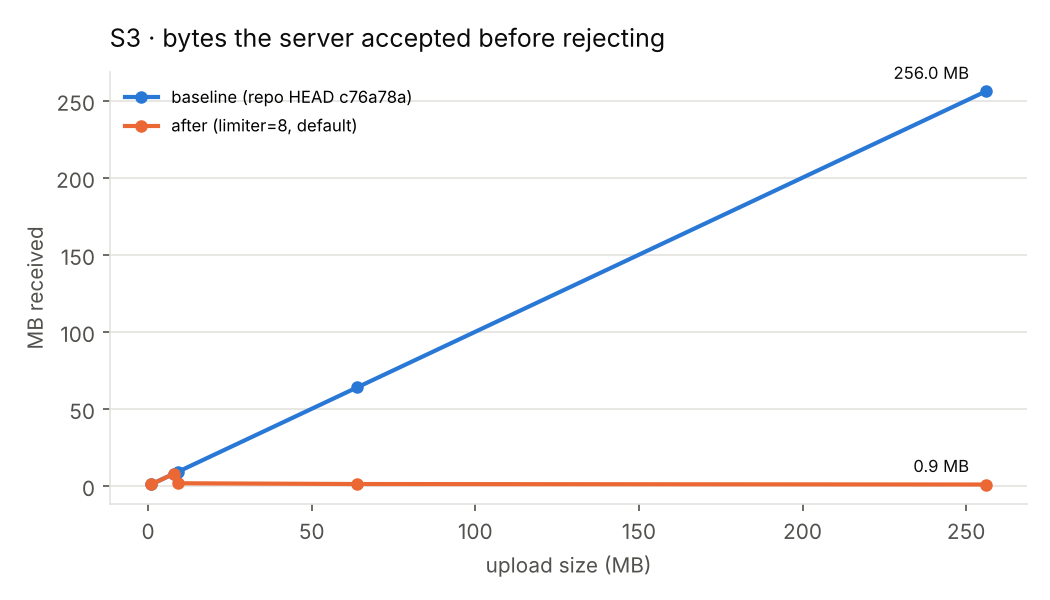
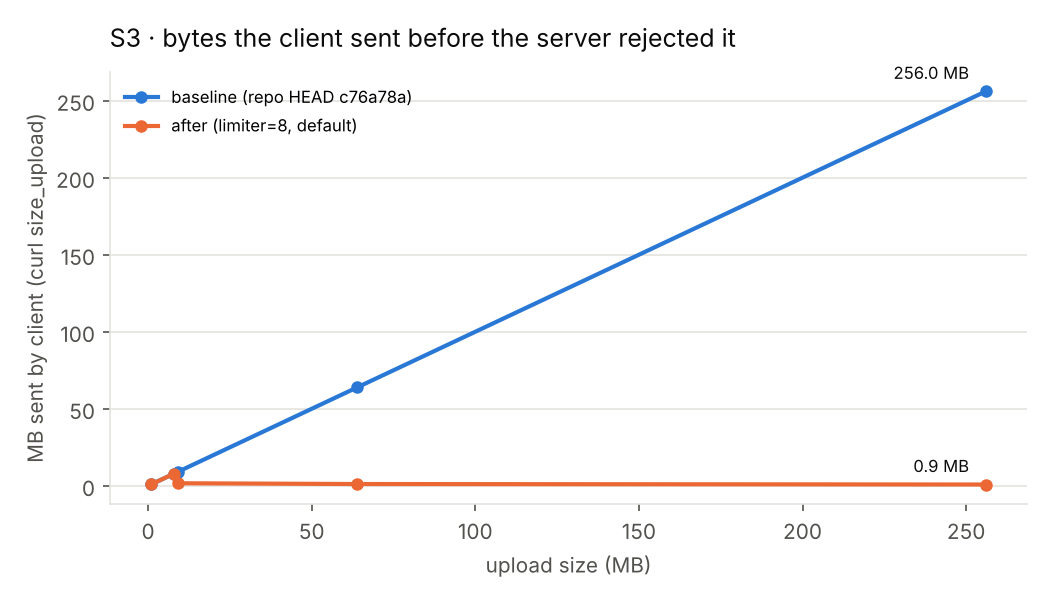
Case study: correct metric names and claims; add one-page summary
- S3: curl size_upload is bytes the client sent, not bytes the server read;
  chart, 05, 08 and 09 relabelled.
- Provider deadline described as a bounded wait with fallback; a started
  provider call is not cancelled.
- Magic-byte checks described as header checks; sidecars as consistency
  checks, not proof of provenance.
- Add docs/engineering-case-study/CASE-STUDY.md as the entry page.

Claude-Session: https://claude.ai/code/session_011KTyP5Nqa3sWCddZwMHgvc

Changed region(s): [[0.2743, 0.03, 0.701, 0.09], [0.0305, 0.18, 0.061, 0.78]]

diff --git a/benchmarks/report.py b/benchmarks/report.py
@@ -140,7 +140,7 @@ def main():
             ax.plot([r["upload_mb"] for r in rs], [r["bytes_sent_by_client"] / 2**20 for r in rs], marker="o", ms=5, lw=2, color=C[lab], label=LABEL[lab])
             ax.annotate(f"{rs[-1]['bytes_sent_by_client']/2**20:.1f} MB", (rs[-1]["upload_mb"], rs[-1]["bytes_sent_by_client"] / 2**20),
                         textcoords="offset points", xytext=(-8, 6), ha="right", fontsize=8, color=INK)
-        style(ax, "S3 · bytes the server accepted before rejecting", "upload size (MB)", "MB received")
+        style(ax, "S3 · bytes the client sent before the server rejected it", "upload size (MB)", "MB sent by client (curl size_upload)")
         ax.legend(frameon=False, fontsize=8)
         fig.tight_layout(); fig.savefig(CH / "s3-upload-guard.png"); plt.close(fig)
 

diff --git a/apps/backend/app/generation.py b/apps/backend/app/generation.py
@@ -44,7 +44,8 @@ FALLBACK_DIR = STORAGE / "fallback"
 RESULTS_DIR = STORAGE / "results"
 
 MAX_BYTES = 8 * 1024 * 1024
-# Hard deadline for one provider call. docs/architecture/api-contract.md promises a
+# Bounded wait for one provider call: after this the caller gets a fallback. The call
+# itself is NOT cancelled (a started thread cannot be stopped). docs/architecture/api-contract.md promises a
 # result within 60 s and the client/proxy give up at 75 s; without this the request
 # simply hung until the client aborted (benchmarks scenario S4). Tighten it from
 # pregen's measured durationSec once a provider exists.

diff --git a/docs/engineering-case-study/08-portfolio-case-study.md b/docs/engineering-case-study/08-portfolio-case-study.md
@@ -12,7 +12,7 @@ This study audited that shell, reproduced its 67 existing tests, and load-tested
 |---|---|---|
 | `/api/health` latency with 40–60 slow generations in flight | ~4.8 s (thread-pool starvation) | 2–11 ms |
 | Caller experience when the model hangs | request open until the client gave up (20 s test cap; 75 s in production config) | labelled fallback result at the deadline (5.1 s at test setting; 60 s default) |
-| Bytes received before rejecting a 256 MB upload | 268 MB (~0.7 s on loopback) | < 1.3 MB (~1 ms) |
+| Bytes the client had sent when a 256 MB upload was rejected (curl `size_upload`) | 268 MB, all parsed by the server (~0.7 s on loopback) | < 1.3 MB (~1 ms) |
 
 All figures come from [`benchmarks/`](../../benchmarks/) and are reproducible; see [04](04-benchmark-results.md).
 
@@ -52,8 +52,8 @@ Python 3 · FastAPI / Starlette / uvicorn · AnyIO · TypeScript · Next.js 16 /
 There is no model call yet (`_call_provider` raises `NotImplementedError`). The workflow *around* it is designed and tested:
 
 - **Input**: `recipeId` + one image. The prompt is loaded server-side; the public projection is an allowlist, so the prompt cannot reach a client.
-- **Validation**: size (now enforced before parsing), content sniffing by magic bytes, readiness gate (`tryReady`).
-- **Execution**: provider call under a concurrency limit and a hard deadline (this study).
+- **Validation**: size (now enforced before parsing), magic-byte header checks (not full decoding), readiness gate (`tryReady`).
+- **Execution**: provider call under a concurrency limit, with a bounded wait after which the caller gets a fallback (this study; the provider call itself is not cancelled).
 - **Output validation**: provider bytes must pass the same magic-byte check as uploads; a "200 with text" is a failure.
 - **Fallback**: a pre-generated `cached` result only if its provenance sidecar is complete and its image is real; otherwise `mock`.
 - **Disclosure**: the server writes `sourceNote`; the client renders it verbatim and rejects payloads where `mock` carries an image.
@@ -67,7 +67,7 @@ Two processes (Next.js, FastAPI) behind one origin via Next rewrites with a 75 s
 Full records: [07-architecture-decisions.md](07-architecture-decisions.md). The three made in this study:
 
 - **ADR-7 — Dedicated generation limiter + async health.** Starlette runs sync routes on AnyIO's 40-slot default limiter; generation shared it with every read route. A separate `CapacityLimiter` (default 8, configurable) isolates them without changing the HTTP contract. Cost: generation throughput is capped at `limit / provider latency` — intended, and tied to the provider's rate limit.
-- **ADR-8 — Deadline in the pipeline.** Provider calls run in a bounded executor; on timeout the request falls back. Abandoning a thread is safe only because the provider function never writes — an invariant pinned by a new test.
+- **ADR-8 — Bounded wait in the pipeline.** Provider calls run in a bounded executor; on timeout the caller gets a fallback (the started call keeps running; it is not cancelled). Abandoning a thread is safe only because the provider function never writes — an invariant pinned by a new test.
 - **ADR-9 — Upload limit at the ASGI layer.** FastAPI parses the multipart body before the route runs, so an in-route size check is too late. A ~60-line middleware rejects by `Content-Length` or by counting streamed bytes, preserving `400 {"error":"too_large"}`.
 
 ## 9. Testing and benchmark methodology
@@ -80,17 +80,17 @@ Full records: [07-architecture-decisions.md](07-architecture-decisions.md). The 
 
 ![health latency vs in-flight generations](../../benchmarks/charts/s2-head-of-line.png)
 
-![bytes received before rejection](../../benchmarks/charts/s3-upload-guard.png)
+![bytes sent by the client before rejection](../../benchmarks/charts/s3-upload-guard.png)
 
 Full tables (S1 endpoint latency at concurrency 1/8/32, S2–S7): [04-benchmark-results.md](04-benchmark-results.md).
 
 ## 11. Reliability and security
 
-Strong already: prompt confidentiality (allowlist), content-based validation at two trust boundaries, path-safe ids, server-authored provenance, no automatic retry of a non-idempotent paid call, health-based failure classification in the client. Added: concurrency isolation, deadline, pre-parse size limit. Missing: rate limiting, result retention, structured logs/metrics, pinned dependencies.
+Strong already: prompt confidentiality (allowlist), magic-byte header checks at two trust boundaries, path-safe ids, server-authored provenance, no automatic retry of a non-idempotent paid call, health-based failure classification in the client. Added: concurrency isolation, deadline, pre-parse size limit. Missing: rate limiting, result retention, structured logs/metrics, pinned dependencies.
 
 ## 12. Performance improvements
 
-The improvements are reliability-under-load improvements, not speed-ups: health latency under 40–60 concurrent generations (~4.8 s → 2–11 ms), bytes ingested for oversized uploads (268 MB → < 1.3 MB), and bounded time-to-response on a hung provider. The common-path latency (S1) was re-measured to check for regressions; see [05](05-engineering-improvements.md).
+The improvements are reliability-under-load improvements, not speed-ups: health latency under 40–60 concurrent generations (~4.8 s → 2–11 ms), bytes a client can push before an oversized upload is rejected (268 MB → < 1.3 MB), and bounded time-to-response on a hung provider. The common-path latency (S1) was re-measured to check for regressions; see [05](05-engineering-improvements.md).
 
 ## 13. Engineering trade-offs
 

diff --git a/docs/engineering-case-study/05-engineering-improvements.md b/docs/engineering-case-study/05-engineering-improvements.md
@@ -7,7 +7,7 @@ Full diff: `git diff c76a78a -- apps/backend .github`.
 | # | Change | Files | Lines (approx.) |
 |---|---|---|---|
 | I1 | Dedicated generation limiter; `async` health | `main.py`, `generation.py` | ~15 |
-| I2 | Hard provider deadline | `generation.py`; +3 tests | ~25 + 42 test |
+| I2 | Bounded provider response time (fallback at a deadline) | `generation.py`; +3 tests | ~25 + 42 test |
 | I3 | Upload size limit before multipart parsing | `main.py`; +3 smoke checks | ~60 + 8 test |
 | I4 | Bounded start-up wait in the smoke test | `test_api.sh` | ~9 |
 | I5 | CI workflow | `.github/workflows/ci.yml` | 45 (**unexecuted**) |
@@ -31,9 +31,11 @@ Full diff: `git diff c76a78a -- apps/backend .github`.
 
 An intermediate version used a separate `MOSAIC_PROVIDER_WORKERS` knob for the provider pool. Running S2 with limit 40 showed generation time stuck at the 8-slot rate: the provider pool (8) silently overrode the limiter (40). The knob was removed; the pool is now derived as 2 × the limit, and S2 was re-run on the final code.
 
-## I2 — Provider deadline (ADR-8)
+## I2 — Bounded response time for provider calls (ADR-8)
 
-1. **Problem**: `_call_provider`'s docstring requires a hard deadline; nothing enforced it.
+Wording note: this bounds how long the *caller* waits. It does not stop the provider call — a started Python thread keeps running and may still consume resources or provider credit.
+
+1. **Problem**: `_call_provider`'s docstring requires "a hard deadline"; nothing enforced it.
 2. **Baseline**: S4 — 5 requests against a hung provider: no response until the client's 20 s timeout; nothing returned.
 3. **Alternatives**: rely on the future SDK's timeout only; `signal.alarm`; asyncio timeout. See ADR-8.
 4. **Change**: `_call_provider_with_deadline()` submits to a `ThreadPoolExecutor(max_workers=2 × limit)` and waits `MOSAIC_PROVIDER_TIMEOUT_S` (default 60 s, matching the documented contract). On timeout: `future.cancel()` (prevents a queued call from ever starting) and raise `TimeoutError("provider exceeded the …s deadline")`, which `run_generation` already turns into a fallback. Catches `concurrent.futures.TimeoutError` explicitly because it is not the builtin `TimeoutError` before Python 3.11 (README supports ≥3.10).
@@ -44,14 +46,14 @@ An intermediate version used a separate `MOSAIC_PROVIDER_WORKERS` knob for the p
 ## I3 — Enforce the upload limit before parsing (ADR-9)
 
 1. **Problem**: FastAPI/Starlette parse and spool the entire multipart body before the route runs; the route's size check comes too late.
-2. **Baseline**: S3 — 256 MB → 268,435,779 bytes received, 674–737 ms, then 400/403. F4: the 403 path costs 7.4 ms vs 9.7 ms for a full mock generation.
+2. **Baseline**: S3 — 256 MB → client sent all 268,435,779 bytes (server parsed all of it), 674–737 ms, then 400/403. F4: the 403 path costs 7.4 ms vs 9.7 ms for a full mock generation.
 3. **Alternatives**: reverse-proxy limit (no proxy exists; recommended in addition); in-route `Content-Length` check (too late).
 4. **Change**: pure-ASGI `UploadSizeLimit` on `POST /api/generate`, limit `8 MiB + 64 KiB`:
    - declared `Content-Length` over the limit → `400 {"error":"too_large"}` without reading the body;
    - chunked bodies: count bytes in `receive()`; on crossing the limit send the same 400 and hand the app a synthetic `http.disconnect`, then drop anything the app tries to send.
    The first version raised an exception from `receive()`; FastAPI caught it during form parsing and answered `{"detail":"There was an error parsing the body"}` — correct status, wrong code, which the frontend would show as "request failed". Found by adding smoke checks that assert the **body**.
 5. **Regression**: +3 smoke checks (chunked oversize status; body code with and without chunking) → 20/20. The wire test's 8 MiB + 1 case still returns `too_large` from the route (it is under the framing allowance), unchanged.
-6. **Re-measurement** (S3): 256 MB → **≤ 1.25 MB received, ~1 ms**; 9 MB → ≤ 1.77 MB, ~1 ms; 1 MB and 8 MB unchanged.
+6. **Re-measurement** (S3): 256 MB → **client had sent ≤ 1.25 MB when rejected, ~1 ms**; 9 MB → ≤ 1.77 MB, ~1 ms (curl `size_upload`: bytes sent by the client, not bytes read by the server); 1 MB and 8 MB unchanged.
 7. **Behaviour changes**: oversized + not-ready now `too_large` (was `recipe_not_ready`); Node undici and Python urllib see a connection reset instead of the 400 (Chromium and curl read it).
 
 ## I4 — Bounded wait in `test_api.sh`
@@ -74,7 +76,7 @@ See ADR-10: recipe caching (31 µs — not worth it), referencing instead of cop
 |---|---|---|
 | Health latency, 40 slow generations in flight | 4,818.9 ms | 2.0 ms |
 | Hung provider: time to a response | none within 20 s | 5.06–5.08 s (test deadline) |
-| Bytes received for a 256 MB upload | 268,435,779 | ≤ 1,245,184 |
+| Bytes the client sent before a 256 MB upload was rejected (curl `size_upload`) | 268,435,779 | ≤ 1,245,184 |
 | `/api/health` p50, concurrency 1 | 1.64 ms | 1.11 ms |
 | `POST generate → mock` p50, concurrency 1 | 9.70 ms | 10.69 ms (regression, +1.0 ms) |
 | Tests | 36 unit / 17 smoke | 39 unit / 20 smoke |

diff --git a/docs/engineering-case-study/09-hiring-review.md b/docs/engineering-case-study/09-hiring-review.md
@@ -32,13 +32,13 @@ Evidence behind the scores:
 - **Ownership**: limited by authorship (§0). The study's fixes are a real, attributable contribution.
 - **Measurable outcomes**: before/after numbers exist for three reliability properties (S2–S4), reproducible from `benchmarks/`. No model metrics exist, so AI/ML roles score low.
 - **Maturity**: no provider, no deployment, no observability, CI never run — 2 everywhere.
-- **Differentiation**: the provenance contract ("never present a cached image as yours", server-authored disclosure, content-validated sidecars) is unusual and makes a memorable story for Solutions and AI-product roles. Generic CRUD + Next.js scores 2 for SWE.
+- **Differentiation**: the provenance contract ("never present a cached image as yours", server-authored disclosure, consistency-checked provenance sidecars) is unusual and makes a memorable story for Solutions and AI-product roles. Generic CRUD + Next.js scores 2 for SWE.
 
 ## 2. Resume bullets (only verified numbers)
 
-1. **Load-tested a FastAPI generation service and removed a head-of-line failure**: with ≥40 concurrent slow model calls, the shared 40-thread pool stalled `/api/health` from ~3 ms to ~4.8 s; isolating generation behind a dedicated AnyIO capacity limiter kept health at 2–11 ms with 60 generations in flight (2 ms with tiny uploads, ≤ 11 ms with 1.6 MB photos) (reproducible benchmark, 3 trials per load level).
-2. **Added a hard deadline to the external model call** (bounded executor, cancel-if-not-started, abandoned calls provably never write): a hung provider now yields a labelled fallback result in 5.1 s at the test setting (60 s default) instead of holding the request open until the client aborts.
-3. **Enforced upload limits at the ASGI layer**, before multipart parsing: a 256 MB request went from fully received (268 MB, ~0.7 s on loopback) to rejected after <1.3 MB in ~1 ms, keeping the documented `too_large` error contract (verified with curl and Chromium).
+1. **Load-tested a FastAPI generation service and removed a head-of-line failure**: with ≥40 concurrent slow (simulated, 5 s) model calls, the shared 40-thread pool stalled `/api/health` from ~3 ms to ~4.8 s; isolating generation behind a dedicated AnyIO capacity limiter kept health at 2–11 ms with 60 generations in flight (2 ms with tiny uploads, ≤ 11 ms with 1.6 MB photos) (reproducible benchmark, 3 trials per load level).
+2. **Bounded response time for a (simulated) external model call** with a labelled fallback (bounded executor, cancel-if-not-started, abandoned calls never write — pinned by a test): against a provider that never returns, the caller now gets a fallback result in 5.1 s at the test setting (60 s default) instead of waiting until it aborts. The started call is not cancelled.
+3. **Enforced upload limits at the ASGI layer**, before multipart parsing: a 256 MB request went from fully sent and parsed (268 MB, ~0.7 s on loopback) to rejected in ~1 ms with < 1.3 MB sent by the client, keeping the documented `too_large` error contract (verified with curl and Chromium).
 4. **Defined the product and API contract for a provenance-first AI image app** (live / cached / mock results with server-authored disclosure; prompts never leave the server) and integrated a FastAPI backend with a Next.js client produced with AI coding agents; contract covered by 39 unit, 20 HTTP-contract and 5 real-HTTP tests.
 5. **Built a reproducible benchmark harness** (isolated server copies, labelled test doubles, zero-dependency load generator, before/after runs against a `git archive` baseline) and documented ADRs, including improvements measured and rejected.
 
@@ -52,7 +52,7 @@ Bullets 1–3 describe work done in this study; keep them only if you can explai
 - *What happens to request 61 now?* It waits for a slot inside the request. With 8 slots and a 5 s provider, 60 requests took ~40 s — bursts beyond `slots × 75 s / latency` will hit client timeouts. The real fix at scale is async jobs (ADR-3).
 - *Is health being fast actually useful if generation is queued?* It is: the client uses health to decide "backend down" vs "slow"; a false "down" is worse UX than a slow spinner.
 
-**Deadline (bullet 2)**
+**Bounded wait (bullet 2)**
 - *You can't kill a Python thread — so what happens to the abandoned call?* It runs to completion in the pool; the pool is 2 × the limit; the call can't write (invariant + test). Real SDK timeouts are still needed.
 - *Does the user still get billed?* Possibly — abandoned calls may complete at the provider. Measure with the real provider.
 

diff --git a/docs/engineering-case-study/CASE-STUDY.md b/docs/engineering-case-study/CASE-STUDY.md
@@ -1,0 +1,47 @@
+# mosAIc — Reliability hardening of an AI image service, before the model is attached
+
+**One-page summary.** Details: [methodology](03-benchmark-methodology.md) · [results](04-benchmark-results.md) · [raw data](../../benchmarks/results/) · [all documents](README.md)
+
+| | |
+|---|---|
+| Baseline | `c76a78a` (main) |
+| After | branch `case-study/engineering-audit` |
+| Pull request / CI | see the PR for this branch on GitHub |
+| Status | Validated prototype. **No AI model is integrated yet** (`_call_provider` raises `NotImplementedError`). |
+
+## Context
+
+mosAIc lets people try image-generation prompts that creators shared publicly, and labels every result as `live` (from your photo), `cached` (a pre-generated sample) or `mock`. The FastAPI backend already had a careful contract (prompts never leave the server, server-written provenance notes, no automatic retry of the paid call) and 67 passing tests. The question for this study: **will the service stay healthy once a slow, sometimes-hanging model is plugged in?**
+
+**Ownership.** The original backend was written by a teammate (with an AI assistant) and the Next.js frontend by a coding agent; I owned the product and API contract. This study — the audit, benchmark harness, fixes and tests below — was carried out with an AI coding assistant under my direction; every change is in one reviewable commit range.
+
+## Method
+
+The real FastAPI app ran from isolated copies of the baseline and the patched tree, using the same harness for both. The missing model was replaced by a **simulated provider** (`sleep`). Every number below comes from that set-up on a 2-vCPU sandbox over loopback, so only before/after comparisons are claimed.
+
+```mermaid
+flowchart LR
+  B[Browser] --> N[Next.js proxy · 75 s] --> F[FastAPI]
+  F -->|read routes · shared pool| R[(recipes · results)]
+  F -->|generation · own limiter| G[pipeline] -->|bounded wait| P[[model · simulated]]
+```
+
+## Findings and fixes
+
+| Problem found | Fix | Before → After |
+|---|---|---|
+| Generation shared Starlette's 40-thread pool with every read route; once 40 slow calls were in flight, `/api/health` queued, so the client would report "backend down" | Dedicated AnyIO capacity limiter for generation (configurable); health served on the event loop | Health with 40 in flight (simulated 5 s calls): **4,818.9 ms → 2.0 ms** |
+| No time limit on the model call; against a provider that never returns, the request stayed open until the client gave up | Provider call runs in a bounded executor; at the deadline the caller gets a labelled fallback (the started call is **not** cancelled) | No response within 20 s → **fallback at 5.06–5.08 s** (5 s test setting; 60 s default) |
+| Upload size was checked only after Starlette had parsed the whole multipart body | Pure-ASGI guard rejects by `Content-Length`, or once a chunked body crosses the limit; same `too_large` error | 256 MB upload: client sent **268 MB → < 1.3 MB** before rejection (curl `size_upload`) |
+
+![health latency vs generations in flight](../../benchmarks/charts/s2-head-of-line.png)
+
+**Trade-offs, measured:** with the default limit of 8, sixty 5 s generations take 40 s instead of 10 s (the limit should match the provider's rate limit). `POST /generate` (mock path) is 1.0 ms slower at concurrency 1. Oversized uploads to an unready recipe now return `too_large` instead of `recipe_not_ready`. Node's undici and Python's urllib see a connection reset instead of the early 400; curl and Chromium read it. Tests went from 36 unit + 17 HTTP checks to 39 + 20.
+
+## What this does not show
+
+- No model latency, cost or output quality: there is no model yet.
+- The frontend build and Docker images were not re-verified (the package registry was unreachable from the study environment).
+- Magic-byte checks confirm a file's header, not that it decodes; provenance sidecars are checked for consistency, which does not prove where an image came from.
+
+**Next:** integrate a real image provider and measure p50/p95/p99 latency, timeout rate, failure rate and cost per successful generation; add structured logs and rate limiting.

diff --git a/docs/engineering-case-study/07-architecture-decisions.md b/docs/engineering-case-study/07-architecture-decisions.md
@@ -66,7 +66,9 @@ Two kinds of records below. **ADR-1…6** reconstruct decisions the original aut
 - **Measurements**: see [04](04-benchmark-results.md) S2 — health latency at 40/60 in flight drops back to the no-load level; generation throughput is now capped by the limiter (8 by default), which is the intended trade-off.
 - **Remaining limitations**: queued generations wait inside the request; with limiter = 8 and a 5 s provider, the 60th request waits ~37 s, so bursts above *limiter × 75 s / provider latency* will hit client timeouts. The right value is a function of the provider's rate limit, which is unknown — hence an env var, not a constant.
 
-## ADR-8 · Enforce the provider deadline in the pipeline, not in each SDK call  *(this study)*
+## ADR-8 · Bound the caller's wait for the provider in the pipeline, not in each SDK call  *(this study)*
+
+Scope: this bounds response time and returns a fallback. It does **not** cancel provider work already started.
 
 - **Problem**: S4 baseline — a hung provider holds the request until the caller aborts; nothing returns a result.
 - **Alternatives**: rely on the future SDK's timeout (unknown, may not cover all phases: connect, upload, generation, download); `signal.alarm` (main thread only); asyncio timeout (provider is sync).
@@ -76,7 +78,7 @@ Two kinds of records below. **ADR-1…6** reconstruct decisions the original aut
 
 ## ADR-9 · Reject oversized uploads at the ASGI layer  *(this study)*
 
-- **Problem**: S3 baseline — 256 MB uploads were fully received and spooled before the 400/403.
+- **Problem**: S3 baseline — 256 MB uploads were fully sent by the client and parsed/spooled by the server before the 400/403.
 - **Alternatives**: reverse-proxy `client_max_body_size` (correct in production; no proxy exists yet); checking `Content-Length` inside the route (too late — FastAPI parses the form before the route body runs).
 - **Decision**: a ~60-line pure-ASGI middleware on `POST /api/generate`: reject a declared `Content-Length` > 8 MiB + 64 KiB without reading; count streamed bytes for chunked bodies and stop at the limit. Same `400 {"error":"too_large"}` contract.
 - **Trade-offs**: (a) an oversized upload to a *not-ready* recipe now answers `too_large` instead of `recipe_not_ready` (precedence change, documented); (b) when the server answers before reading the body, curl and Chromium read the 400, but Node's undici and Python's urllib surfaced a connection reset instead — acceptable because the web client validates size before sending.

diff --git a/docs/engineering-case-study/02-engineering-value-assessment.md b/docs/engineering-case-study/02-engineering-value-assessment.md
@@ -13,7 +13,7 @@ Only capabilities that exist in the code are assessed. Categories: **A** strong 
 ### H1. Server-authored provenance for AI output (live / cached / mock) — **A**
 
 - **Problem**: an AI demo that silently shows a pre-made image as "your result" is misleading; the project's product principle forbids it.
-- **Why meaningful**: provenance is decided in one place (`run_generation`), written by the server (`_source_note`), validated by content (sidecar must parse, have 5 provenance fields, point inside `fallback/`, and *be an image*), and the client refuses inconsistent payloads (`isGenerationResult`: `mock` must have `imageUrl === null`).
+- **Why meaningful**: provenance is decided in one place (`run_generation`), written by the server (`_source_note`), checked for consistency (sidecar must parse, have 5 provenance fields, point inside `fallback/`, and the file must start with an image signature — a header check, not proof the file decodes or that the provenance claim is true), and the client refuses inconsistent payloads (`isGenerationResult`: `mock` must have `imageUrl === null`).
 - **Alternatives**: client-side labels; a single boolean `isLive`; trusting sidecar existence.
 - **Trade-offs**: more fields on the wire; every fallback asset needs a sidecar; copying the asset per result costs disk (S5) but keeps old results truthful if the asset changes.
 - **Measurement**: 20 unit tests across `Modes` (6), `Disclosure` (4), `SidecarValidation` (10); 1 client test. Re-run: all pass.
@@ -35,7 +35,7 @@ Only capabilities that exist in the code are assessed. Categories: **A** strong 
 ### H4. Concurrency model for a slow external model call — **B → A after this study**
 
 - Original: sync routes in Starlette's thread pool. Correct for one request; **measured cliff at 40 in-flight generations** (health 2–3 ms → ~4.8 s).
-- After this study: a dedicated capacity limiter for generation, `async` health, a hard provider deadline, and request-size enforcement before body parsing, each with before/after numbers.
+- After this study: a dedicated capacity limiter for generation, `async` health, a bounded response time for provider calls (fallback at the deadline), and request-size enforcement before body parsing, each with before/after numbers.
 - **Roles**: ML Infrastructure, AI Platform — this is the most relevant item for infra roles because it is exactly the problem of serving a slow, rate-limited model behind an API.
 
 ### H5. Testing discipline — **B+**

diff --git a/docs/engineering-case-study/04-benchmark-results.md b/docs/engineering-case-study/04-benchmark-results.md
@@ -49,8 +49,8 @@ One `GET /api/health` probe issued while N generations are in flight. Median of 
 
 ![S3](../../benchmarks/charts/s3-upload-guard.png)
 
-- Baseline received the **entire** body every time, including for recipes that were not even runnable. On loopback 256 MB costs ~0.7 s; on a 10 Mbit/s uplink the same request would occupy the connection for minutes. Server RSS stayed ≤ 65 MB because Starlette spools to disk — the cost is bandwidth, disk and a parser busy on garbage.
-- After: rejection within ~1 ms after at most ~1.8 MB (socket buffers already in flight). In-limit uploads (1 MB, 8 MB) are unchanged.
+- Baseline: the client sent the **entire** body every time (and the server had to read all of it, because the route only runs after multipart parsing), including for recipes that were not even runnable. On loopback 256 MB costs ~0.7 s; on a 10 Mbit/s uplink the same request would occupy the connection for minutes. Server RSS stayed ≤ 65 MB because Starlette spools to disk — the cost is bandwidth, disk and a parser busy on garbage.
+- After: rejection within ~1 ms; the client had sent at most ~1.8 MB when the 400 arrived. This is curl's `size_upload` — bytes **the client sent**, not an exact count of bytes the server read (the server reads less: it rejects on the declared `Content-Length` before reading the body; the rest is socket buffering). In-limit uploads (1 MB, 8 MB) are unchanged.
 - Behaviour change: oversized + not-ready now returns `400 too_large` instead of `403 recipe_not_ready`.
 - Client compatibility probe (not in the table): Chromium `fetch` and curl read the early 400 body for 9, 64 and 256 MB; Node's undici and Python's urllib reported a connection reset.
 

diff --git a/docs/engineering-case-study/01-architecture-audit.md b/docs/engineering-case-study/01-architecture-audit.md
@@ -122,8 +122,8 @@ Request path for the core journey (Discover → Recipe → Create → Result):
 
 ## 7. Where the real technical complexity is
 
-1. **Truthful-result pipeline** (`generation.py`): three modes, provenance sidecars validated by content, a failure model where any provider error degrades instead of raising, and write-ordering that makes an abandoned provider thread harmless. Small (200 lines) but dense with deliberate invariants, each pinned by a test.
-2. **Trust boundaries**: prompt confidentiality via allowlist, content sniffing at two boundaries, path-traversal-safe result ids, `sourceNote` verbatim rendering enforced by a client-side type guard.
+1. **Truthful-result pipeline** (`generation.py`): three modes, provenance sidecars checked for completeness and consistency (all fields present, image path inside `fallback/`, image header is a real JPEG/PNG/WebP signature), a failure model where any provider error degrades instead of raising, and write-ordering that makes an abandoned provider thread harmless. Small (200 lines) but dense with deliberate invariants, each pinned by a test.
+2. **Trust boundaries**: prompt confidentiality via allowlist, magic-byte (file-header) checks at two boundaries, path-traversal-safe result ids, `sourceNote` verbatim rendering enforced by a client-side type guard.
 3. **Client resilience** (`client.ts`): per-request timeouts, health probe to classify failures, no retry for a non-idempotent call, runtime validation of every payload.
 
 Everything else (gallery, detail pages, favorites in `localStorage`) is ordinary product UI.

diff --git a/docs/engineering-case-study/10-engineering-learning-report.md b/docs/engineering-case-study/10-engineering-learning-report.md
@@ -26,7 +26,7 @@ The brief described an "AI system" and listed things to benchmark (GPU, tokens, 
 | Claim in code | Experiment | Result |
 |---|---|---|
 | "health stays responsive while a generation is in flight" | S2: N slow generations, then one health probe | True up to 39; at 40 the probe waited ~4.8 s. 40 = AnyIO's default thread-pool size. The claim was verified by the authors with **one** 8 s generation — correct, but one is not many. |
-| "checked before the upload is read … no reason to pull 8MB off the wire" | S3: 9–256 MB uploads to a not-ready recipe | The server received all 268 MB before answering 403. FastAPI parses the multipart body *before* the route function runs, so "before the upload is read" is impossible inside the route. |
+| "checked before the upload is read … no reason to pull 8MB off the wire" | S3: 9–256 MB uploads to a not-ready recipe | The client sent all 268 MB and the server parsed it before answering 403. FastAPI parses the multipart body *before* the route function runs, so "before the upload is read" is impossible inside the route. |
 | "Must honour: a hard deadline" | S4: provider that never returns | Nothing enforced it; the request stayed open until the client gave up. |
 
 Pattern worth remembering: **frameworks do work before your code runs** (body parsing, dependency resolution, thread-pool scheduling). Comments describe what the author's code does; benchmarks reveal what the framework does around it.

diff --git a/docs/engineering-case-study/execution-log.md b/docs/engineering-case-study/execution-log.md
@@ -28,6 +28,9 @@ Chronological record of what was actually done, 2026-10-23 (Asia/Taipei). "Evide
 | 22 | Wrote documents 01–10, README | — | this folder |
 | 23 | Cross-checked every number in 04/05/08/09 against `summary.md` | see bottom of [04](04-benchmark-results.md) | — |
 
+| 24 | External review (ChatGPT) of the ZIP | Corrected: S3 metric is curl `size_upload` = bytes the **client sent** (was mislabelled "received" in the chart, 05, 08, 09); provider deadline reworded as bounded response time with fallback (the call is not cancelled); magic-byte check described as a header check, sidecars as consistency checks. Added one-page `CASE-STUDY.md` | follow-up commit |
+| 25 | Opened PR so `ci.yml` runs | see PR checks | GitHub |
+
 ## Final regression status (final code)
 
 | Suite | Result |
